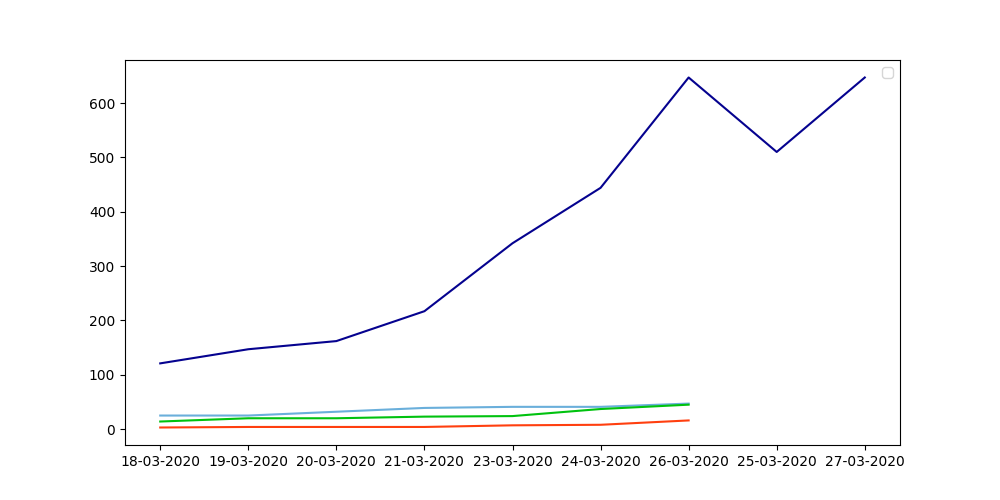
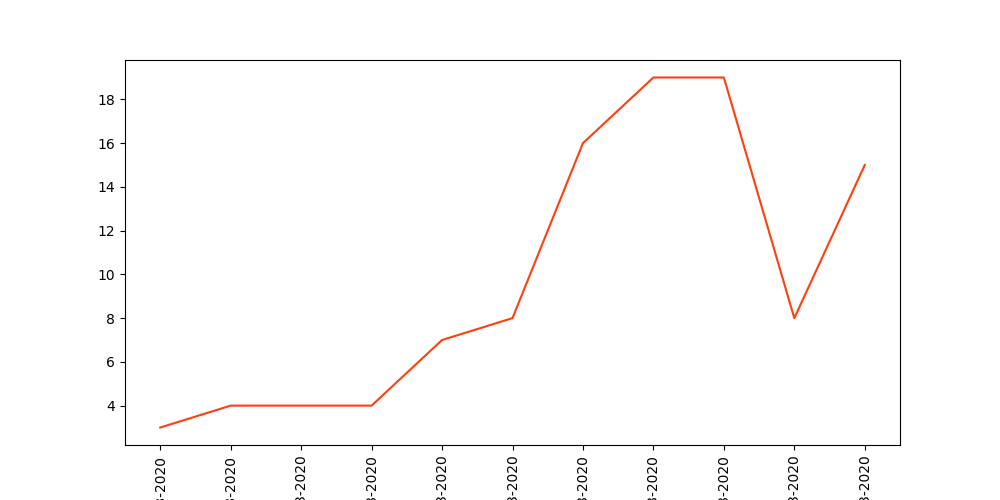
27-03-2020

diff --git a/COVID-19-Tracker/plot_graph.py b/COVID-19-Tracker/plot_graph.py
@@ -130,10 +130,9 @@ def spread_chart():
 def linePlot(labels, lst, clr):
     plt.figure(figsize=(10, 5))
     plt.plot(labels, lst, color = clr)
-
-
-#bar_chart()
-
+    plt.xticks(rotation = 'vertical')
+    plt.savefig("saved_graphs/" + labels[-1] + "_progress" + ".png")
+bar_chart()
 spread_chart()
 
 
